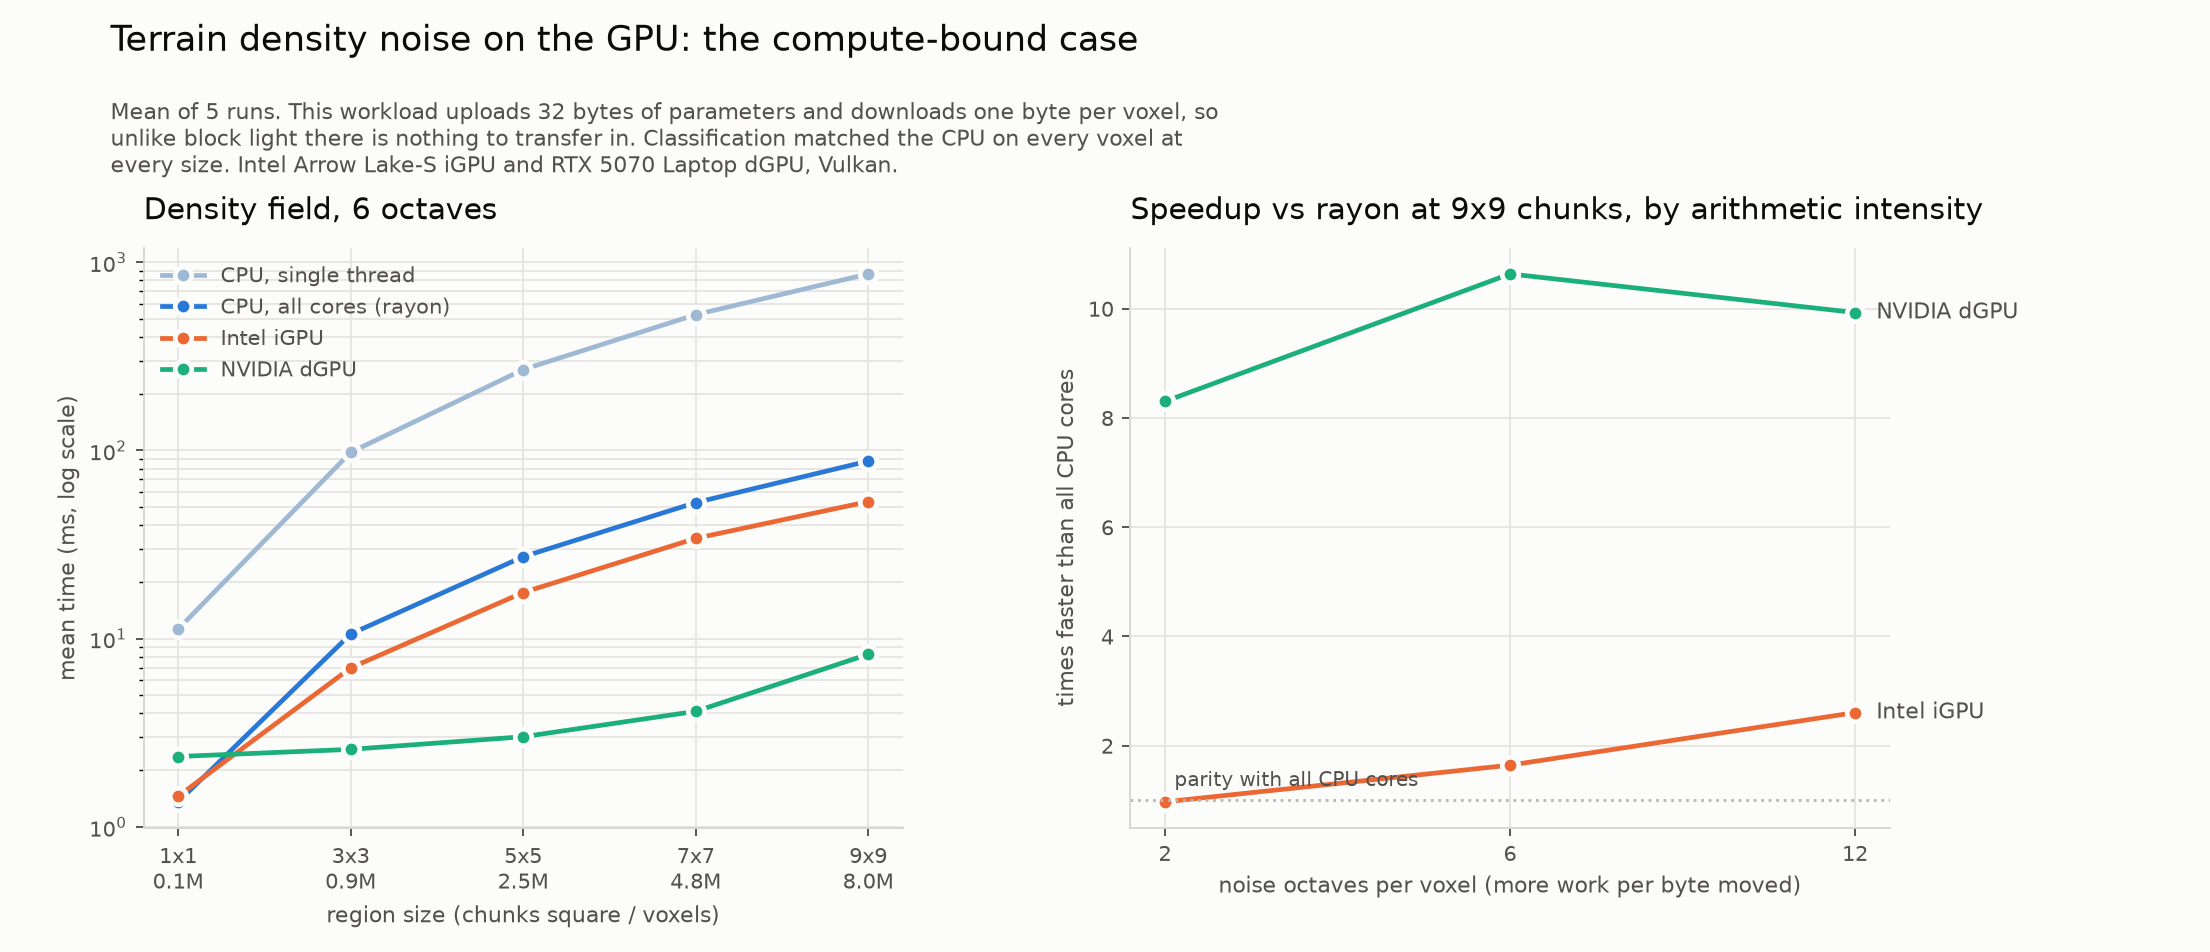
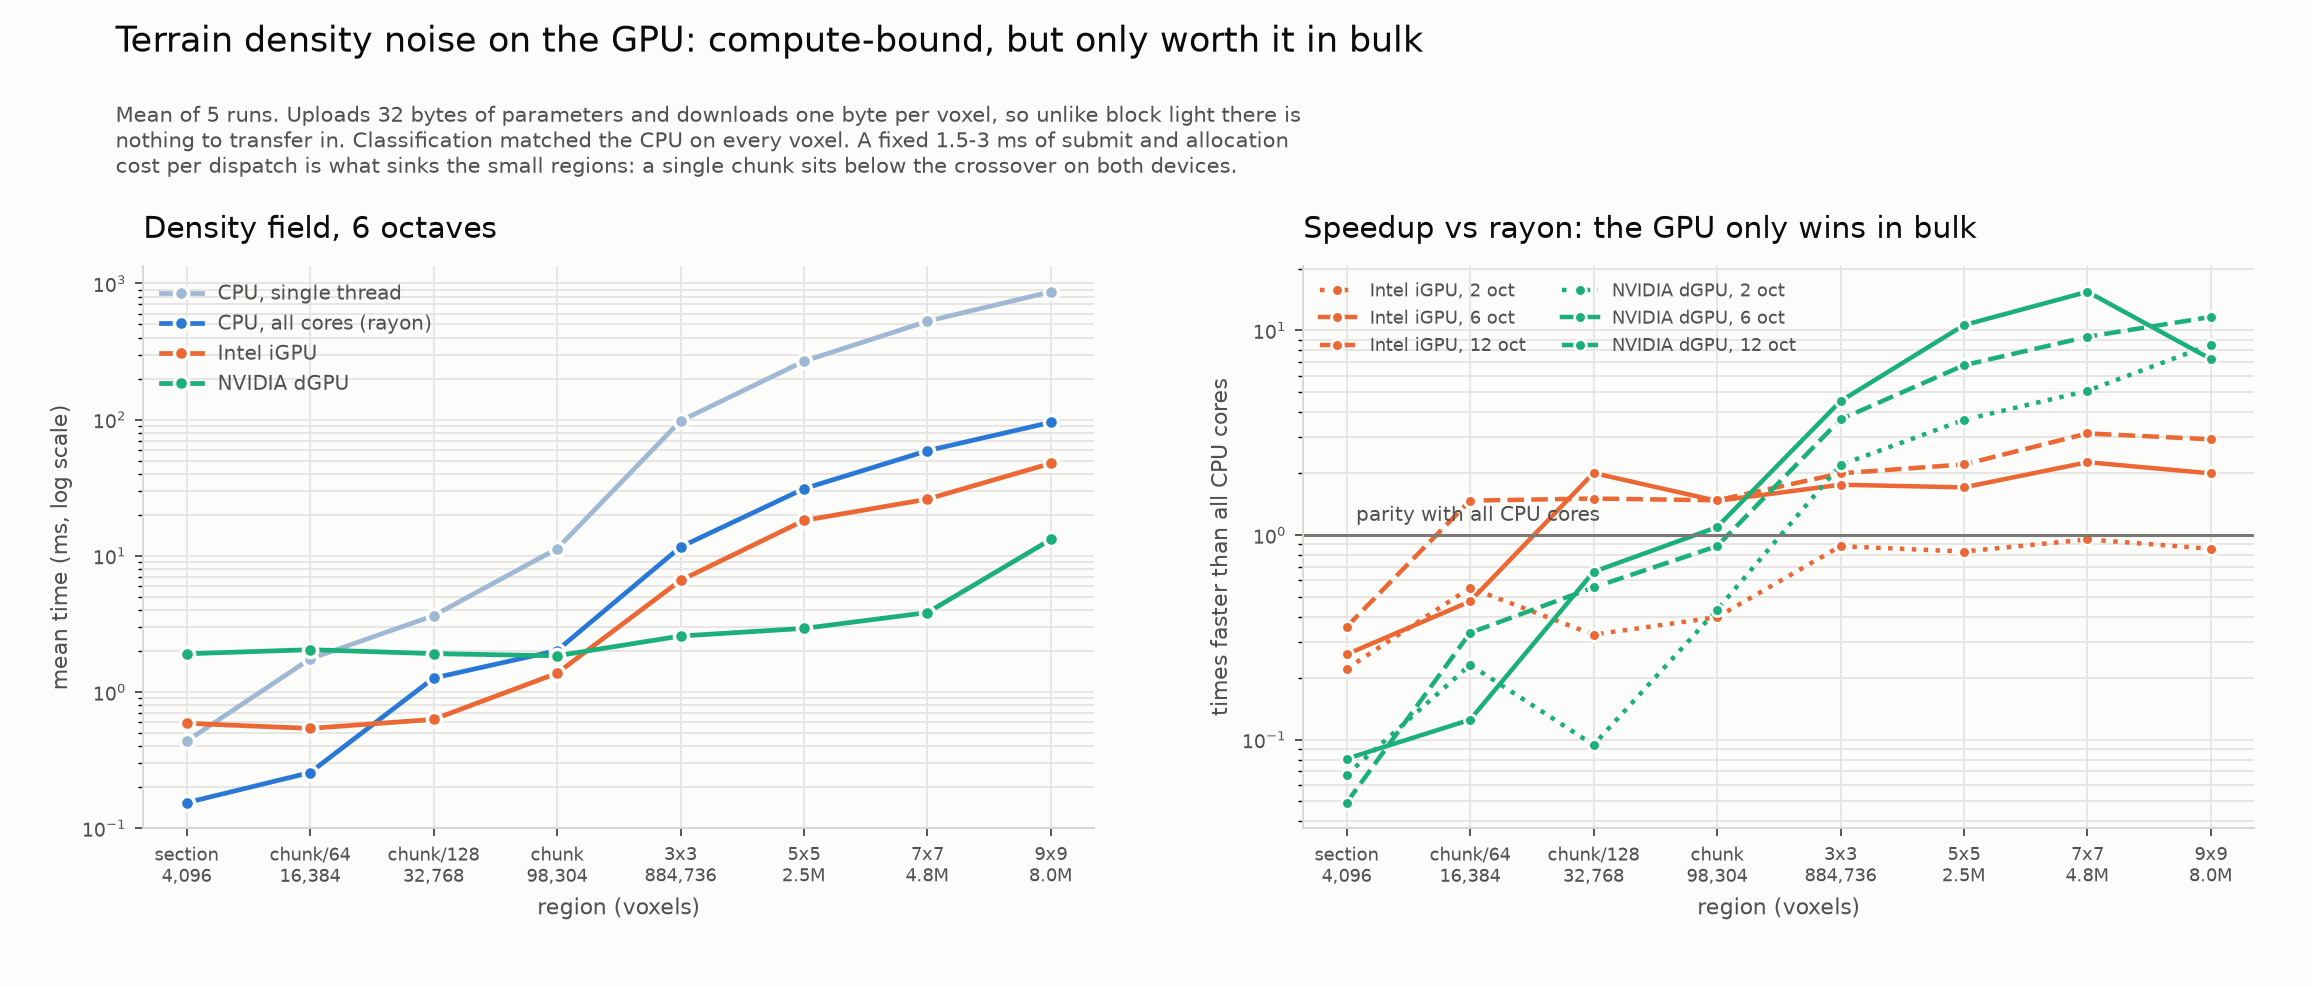
bench(gpu): measure terrain noise down to a single chunk section
The previous sizes all started at one full chunk column and went up, which only
ever showed the GPU winning. Adding 16x16x16, 16x64x16 and 16x128x16 finds the
other end of the curve, and it changes the practical conclusion.

Mean of 5 runs, speedup against rayon on all cores (below 1.0 the GPU loses):

  region      voxels     2 oct         6 oct         12 oct
                        iGPU  dGPU    iGPU  dGPU    iGPU  dGPU
  section       4,096   0.22  0.07    0.26  0.08    0.36  0.05
  chunk/64     16,384   0.55  0.23    0.47  0.13    1.47  0.33
  chunk/128    32,768   0.33  0.09    2.01  0.66    1.51  0.55
  chunk        98,304   0.40  0.43    1.47  1.09    1.48  0.88
  3x3         884,736   0.88  2.20    1.76  4.51    2.00  3.67
  5x5       2,457,600   0.83  3.65    1.71 10.61    2.21  6.76
  7x7       4,816,896   0.95  5.07    2.27 15.43    3.14  9.30
  9x9       7,962,624   0.86  8.52    2.00  7.23    2.93 11.62

A single chunk section is 13x to 20x slower on the dGPU than just doing it on the
CPU, and one full chunk column is at best break-even. The cause is a fixed floor of
roughly 1.5 to 3 ms per dispatch - buffer allocation, descriptor setup, submit and
fence - that does not shrink with the problem. The CPU finishes an entire chunk
column in 0.7 to 3.0 ms, so anything at or below chunk granularity is over before
the GPU has been handed the work. The crossover is around 0.9M voxels, roughly nine
[…]

diff --git a/pumpkin-world/benches/plot_gpu_noise.py b/pumpkin-world/benches/plot_gpu_noise.py
@@ -25,27 +25,40 @@ LABELS = {
     "dgpu": "NVIDIA dGPU",
 }
 ORDER = ["cpu-serial", "cpu-rayon", "igpu", "dgpu"]
+STYLES = {2: ":", 6: "-", 12: "--"}
+PANEL_OCTAVES = 6
 
 rows = json.load(open(sys.argv[1]))
 out = sys.argv[2]
 
-PANEL_OCTAVES = 6
+
+def voxels_of(region):
+    return next(r["voxels"] for r in rows if r["region"] == region)
+
+
+regions = []
+for r in rows:
+    if r["region"] not in regions:
+        regions.append(r["region"])
+regions.sort(key=voxels_of)
 octaves_all = sorted({r["octaves"] for r in rows})
-sizes = sorted({r["chunks"] for r in rows})
 
 
-def series(backend, octaves):
-    got = [r for r in rows if r["backend"] == backend and r["octaves"] == octaves]
-    got.sort(key=lambda r: r["voxels"])
-    return got
+def pick(backend, octaves, region):
+    for r in rows:
+        if r["backend"] == backend and r["octaves"] == octaves and r["region"] == region:
+            return r
+    return None
 
 
 xs_labels = [
-    f"{c}x{c}\n{next(r['voxels'] for r in rows if r['chunks'] == c) / 1e6:.1f}M"
-    for c in sizes
+    f"{name}\n{voxels_of(name):,}"
+    if voxels_of(name) < 1_000_000
+    else f"{name}\n{voxels_of(name) / 1e6:.1f}M"
+    for name in regions
 ]
 
-fig, (ax1, ax2) = plt.subplots(1, 2, figsize=(13.0, 5.6), facecolor=SURFACE)
+fig, (ax1, ax2) = plt.subplots(1, 2, figsize=(13.6, 5.8), facecolor=SURFACE)
 
 for ax in (ax1, ax2):
     ax.set_facecolor(SURFACE)
@@ -55,78 +68,60 @@ for ax in (ax1, ax2):
         ax.spines[s].set_visible(False)
     for s in ("bottom", "left"):
         ax.spines[s].set_color("#d8d7d2")
-    ax.tick_params(colors=MUTED, labelsize=9)
-
-ax1.set_yscale("log")
-ax1.set_xticks(range(len(sizes)))
-ax1.set_xticklabels(xs_labels)
+    ax.tick_params(colors=MUTED, labelsize=8)
+    ax.set_xticks(range(len(regions)))
+    ax.set_xticklabels(xs_labels, fontsize=7.5)
+    ax.set_yscale("log")
 
 for backend in ORDER:
-    got = series(backend, PANEL_OCTAVES)
-    if not got:
-        continue
-    ys = [r["mean_ms"] for r in got]
+    ys = [
+        got["mean_ms"] if (got := pick(backend, PANEL_OCTAVES, name)) else None
+        for name in regions
+    ]
     ax1.plot(
         range(len(ys)),
         ys,
         color=COLORS[backend],
         linewidth=2,
         marker="o",
-        markersize=7,
+        markersize=6,
         markeredgecolor=SURFACE,
-        markeredgewidth=2,
+        markeredgewidth=1.5,
         label=LABELS[backend],
     )
 
 ax1.set_title(
-    f"Density field, {PANEL_OCTAVES} octaves", color=INK, fontsize=12.5, pad=12, loc="left"
+    f"Density field, {PANEL_OCTAVES} octaves",
+    color=INK,
+    fontsize=12.5,
+    pad=12,
+    loc="left",
 )
 ax1.set_ylabel("mean time (ms, log scale)", color=MUTED, fontsize=9.5)
-ax1.set_xlabel("region size (chunks square / voxels)", color=MUTED, fontsize=9.5)
-ax1.legend(frameon=False, fontsize=8.8, labelcolor=MUTED, loc="upper left")
+ax1.set_xlabel("region (voxels)", color=MUTED, fontsize=9.5)
+ax1.legend(frameon=False, fontsize=8.5, labelcolor=MUTED, loc="upper left")
 
-biggest = max(sizes)
-ax2.set_xticks(range(len(octaves_all)))
-ax2.set_xticklabels([str(o) for o in octaves_all])
-
-base = {
-    o: next(
-        r["mean_ms"]
-        for r in rows
-        if r["backend"] == "cpu-rayon" and r["octaves"] == o and r["chunks"] == biggest
-    )
-    for o in octaves_all
-}
 for backend in ("igpu", "dgpu"):
-    ys = []
-    for o in octaves_all:
-        got = [
-            r
-            for r in rows
-            if r["backend"] == backend and r["octaves"] == o and r["chunks"] == biggest
-        ]
-        ys.append(base[o] / got[0]["mean_ms"] if got else 0.0)
-    ax2.plot(
-        range(len(ys)),
-        ys,
-        color=COLORS[backend],
-        linewidth=2,
-        marker="o",
-        markersize=7,
-        markeredgecolor=SURFACE,
-        markeredgewidth=2,
-    )
-    ax2.annotate(
-        LABELS[backend],
-        (len(ys) - 1, ys[-1]),
-        textcoords="offset points",
-        xytext=(9, 0),
-        color=MUTED,
-        fontsize=9.5,
-        va="center",
-    )
+    for octaves in octaves_all:
+        ys = []
+        for name in regions:
+            base = pick("cpu-rayon", octaves, name)
+            got = pick(backend, octaves, name)
+            ys.append(base["mean_ms"] / got["mean_ms"] if base and got else None)
+        ax2.plot(
+            range(len(ys)),
+            ys,
+            color=COLORS[backend],
+            linewidth=1.9,
+            linestyle=STYLES[octaves],
+            marker="o",
+            markersize=5,
+            markeredgecolor=SURFACE,
+            markeredgewidth=1.2,
+            label=f"{LABELS[backend]}, {octaves} oct",
+        )
 
-ax2.axhline(1.0, color="#b9b8b3", linewidth=1.2, linestyle=":")
+ax2.axhline(1.0, color="#7a7975", linewidth=1.3)
 ax2.annotate(
     "parity with all CPU cores",
     (0, 1.0),
@@ -136,17 +131,18 @@ ax2.annotate(
     fontsize=8.5,
 )
 ax2.set_title(
-    f"Speedup vs rayon at {biggest}x{biggest} chunks, by arithmetic intensity",
+    "Speedup vs rayon: the GPU only wins in bulk",
     color=INK,
     fontsize=12.5,
     pad=12,
     loc="left",
 )
 ax2.set_ylabel("times faster than all CPU cores", color=MUTED, fontsize=9.5)
-ax2.set_xlabel("noise octaves per voxel (more work per byte moved)", color=MUTED, fontsize=9.5)
+ax2.set_xlabel("region (voxels)", color=MUTED, fontsize=9.5)
+ax2.legend(frameon=False, fontsize=7.6, labelcolor=MUTED, loc="upper left", ncol=2)
 
 fig.suptitle(
-    "Terrain density noise on the GPU: the compute-bound case",
+    "Terrain density noise on the GPU: compute-bound, but only worth it in bulk",
     color=INK,
     fontsize=15,
     x=0.05,
@@ -156,14 +152,14 @@ fig.suptitle(
 fig.text(
     0.05,
     0.895,
-    "Mean of 5 runs. This workload uploads 32 bytes of parameters and downloads one byte per voxel, so\n"
-    "unlike block light there is nothing to transfer in. Classification matched the CPU on every voxel at\n"
-    "every size. Intel Arrow Lake-S iGPU and RTX 5070 Laptop dGPU, Vulkan.",
+    "Mean of 5 runs. Uploads 32 bytes of parameters and downloads one byte per voxel, so unlike block light there is\n"
+    "nothing to transfer in. Classification matched the CPU on every voxel. A fixed 1.5-3 ms of submit and allocation\n"
+    "cost per dispatch is what sinks the small regions: a single chunk sits below the crossover on both devices.",
     color=MUTED,
-    fontsize=9.2,
+    fontsize=9.0,
     ha="left",
     va="top",
 )
-fig.subplots_adjust(left=0.065, right=0.855, top=0.74, bottom=0.13, wspace=0.30)
+fig.subplots_adjust(left=0.062, right=0.975, top=0.73, bottom=0.16, wspace=0.22)
 fig.savefig(out, dpi=170, facecolor=SURFACE)
 print("wrote", out)

diff --git a/pumpkin-world/benches/gpu_noise.rs b/pumpkin-world/benches/gpu_noise.rs
@@ -12,8 +12,16 @@ mod bench {
         GpuNoiseEngine, NoiseAdapter, NoiseParams, density_field_cpu, density_field_cpu_parallel,
     };
 
-    const HEIGHT: u32 = 384;
-    const CHUNK_COUNTS: [u32; 5] = [1, 3, 5, 7, 9];
+    const REGIONS: [(&str, u32, u32); 8] = [
+        ("section", 1, 16),
+        ("chunk/64", 1, 64),
+        ("chunk/128", 1, 128),
+        ("chunk", 1, 384),
+        ("3x3", 3, 384),
+        ("5x5", 5, 384),
+        ("7x7", 7, 384),
+        ("9x9", 9, 384),
+    ];
     const OCTAVES: [u32; 3] = [2, 6, 12];
     const REPS: usize = 5;
 
@@ -29,10 +37,10 @@ mod bench {
         times.iter().copied().min().map_or(0.0, ms)
     }
 
-    const fn params(chunks: u32, octaves: u32) -> NoiseParams {
+    const fn params(chunks: u32, height: u32, octaves: u32) -> NoiseParams {
         NoiseParams {
             size_x: chunks * 16,
-            size_y: HEIGHT,
+            size_y: height,
             size_z: chunks * 16,
             octaves,
             seed: 0x5EED,
@@ -42,6 +50,7 @@ mod bench {
     }
 
     struct Row {
+        region: String,
         chunks: u32,
         voxels: usize,
         octaves: u32,
@@ -55,7 +64,8 @@ mod bench {
     impl Row {
         fn to_json(&self) -> String {
             format!(
-                r#"{{"chunks":{},"voxels":{},"octaves":{},"backend":"{}","device":"{}","mean_ms":{:.4},"min_ms":{:.4}{}}}"#,
+                r#"{{"region":"{}","chunks":{},"voxels":{},"octaves":{},"backend":"{}","device":"{}","mean_ms":{:.4},"min_ms":{:.4}{}}}"#,
+                self.region,
                 self.chunks,
                 self.voxels,
                 self.octaves,
@@ -88,11 +98,12 @@ mod bench {
         let mut rows: Vec<Row> = Vec::new();
 
         for &octaves in &OCTAVES {
-            for &chunks in &CHUNK_COUNTS {
-                let p = params(chunks, octaves);
+            for &(region, chunks, height) in &REGIONS {
+                let p = params(chunks, height, octaves);
                 let voxels = p.total();
                 println!(
-                    "\n=== {chunks}x{chunks} chunks | {voxels} voxels | {octaves} octaves ==="
+                    "\n=== {region} | {} x {height} x {} = {voxels} voxels | {octaves} octaves ===",
+                    p.size_x, p.size_z
                 );
 
                 let reference = density_field_cpu(&p);
@@ -109,6 +120,7 @@ mod bench {
                     min_ms(&serial)
                 );
                 rows.push(Row {
+                    region: region.to_owned(),
                     chunks,
                     voxels,
                     octaves,
@@ -132,6 +144,7 @@ mod bench {
                     min_ms(&parallel)
                 );
                 rows.push(Row {
+                    region: region.to_owned(),
                     chunks,
                     voxels,
                     octaves,
@@ -183,6 +196,7 @@ mod bench {
                         frac * 100.0
                     );
                     rows.push(Row {
+                        region: region.to_owned(),
                         chunks,
                         voxels,
                         octaves,
